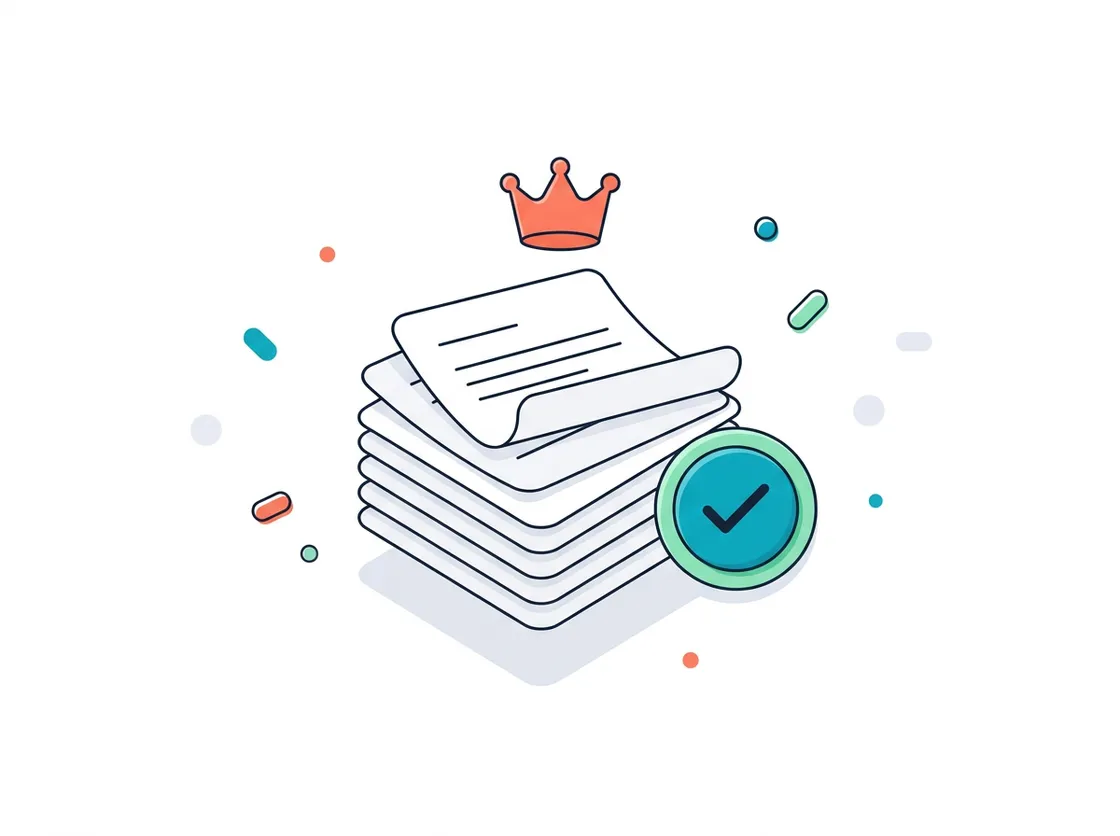
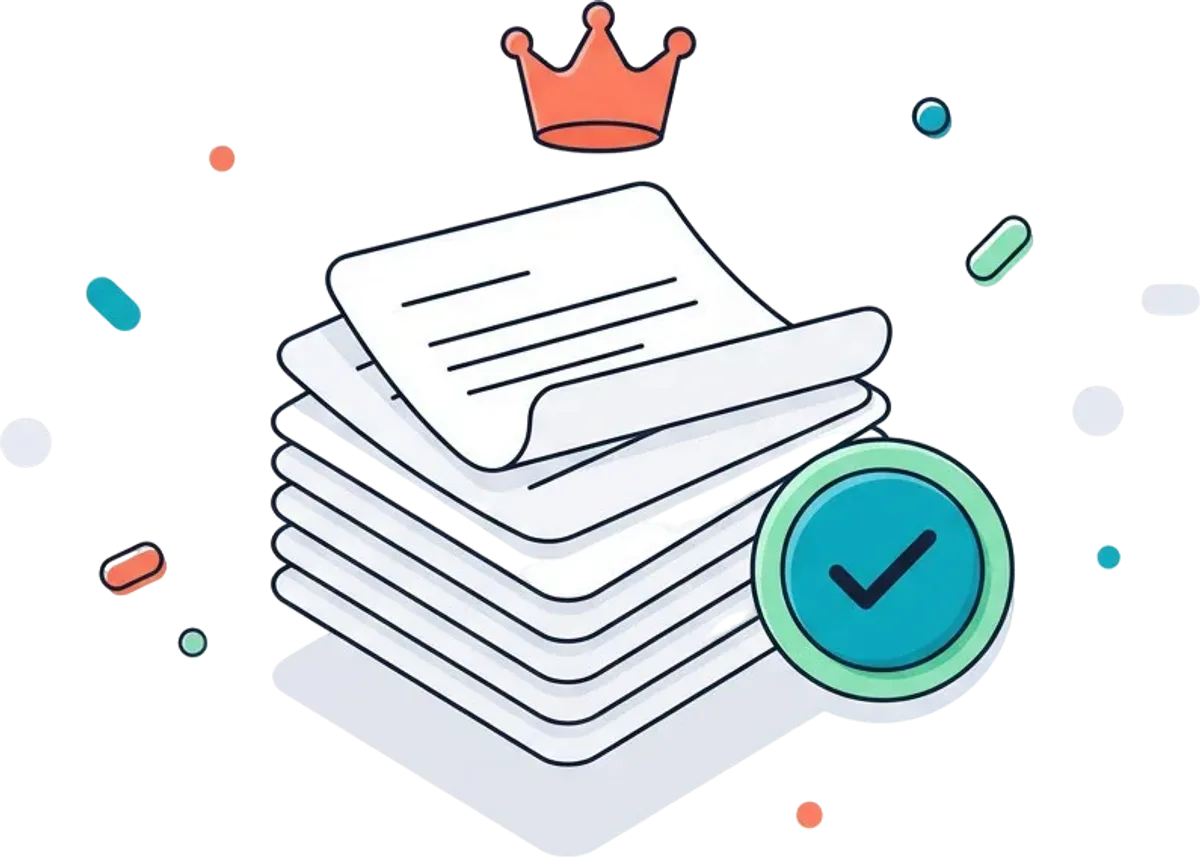
VIP hero: cut-out illustration on the tint, larger
Standalone illustrations work better without the rectangular plate —
background removed via Magnific cut-out (alpha WebP, trimmed), so the
stack, confetti and its soft shadow sit directly on the hero tint.
Plate styling (rounded corners + diffuse shadow) dropped, max width up
520 to 600.

Cards keep their full-bleed white bands — that rule is for
illustrations inside text cards; this one stands alone in the hero
grid.

diff --git a/site/vip.html b/site/vip.html
@@ -133,7 +133,8 @@ tailwind.config = {
     </div>
 
     <div class="rv hidden lg:block">
-      <img src="assets/img/vip/hero.webp" alt="" width="1120" height="840" class="w-full max-w-[520px] mx-auto rounded-4xl shadow-diffuse" fetchpriority="high">
+      <!-- transparent cut-out sits straight on the hero tint — no plate, no shadow box -->
+      <img src="assets/img/vip/hero.webp" alt="" width="1200" height="896" class="w-full max-w-[600px] mx-auto" fetchpriority="high">
     </div>
   </div>
 </section>